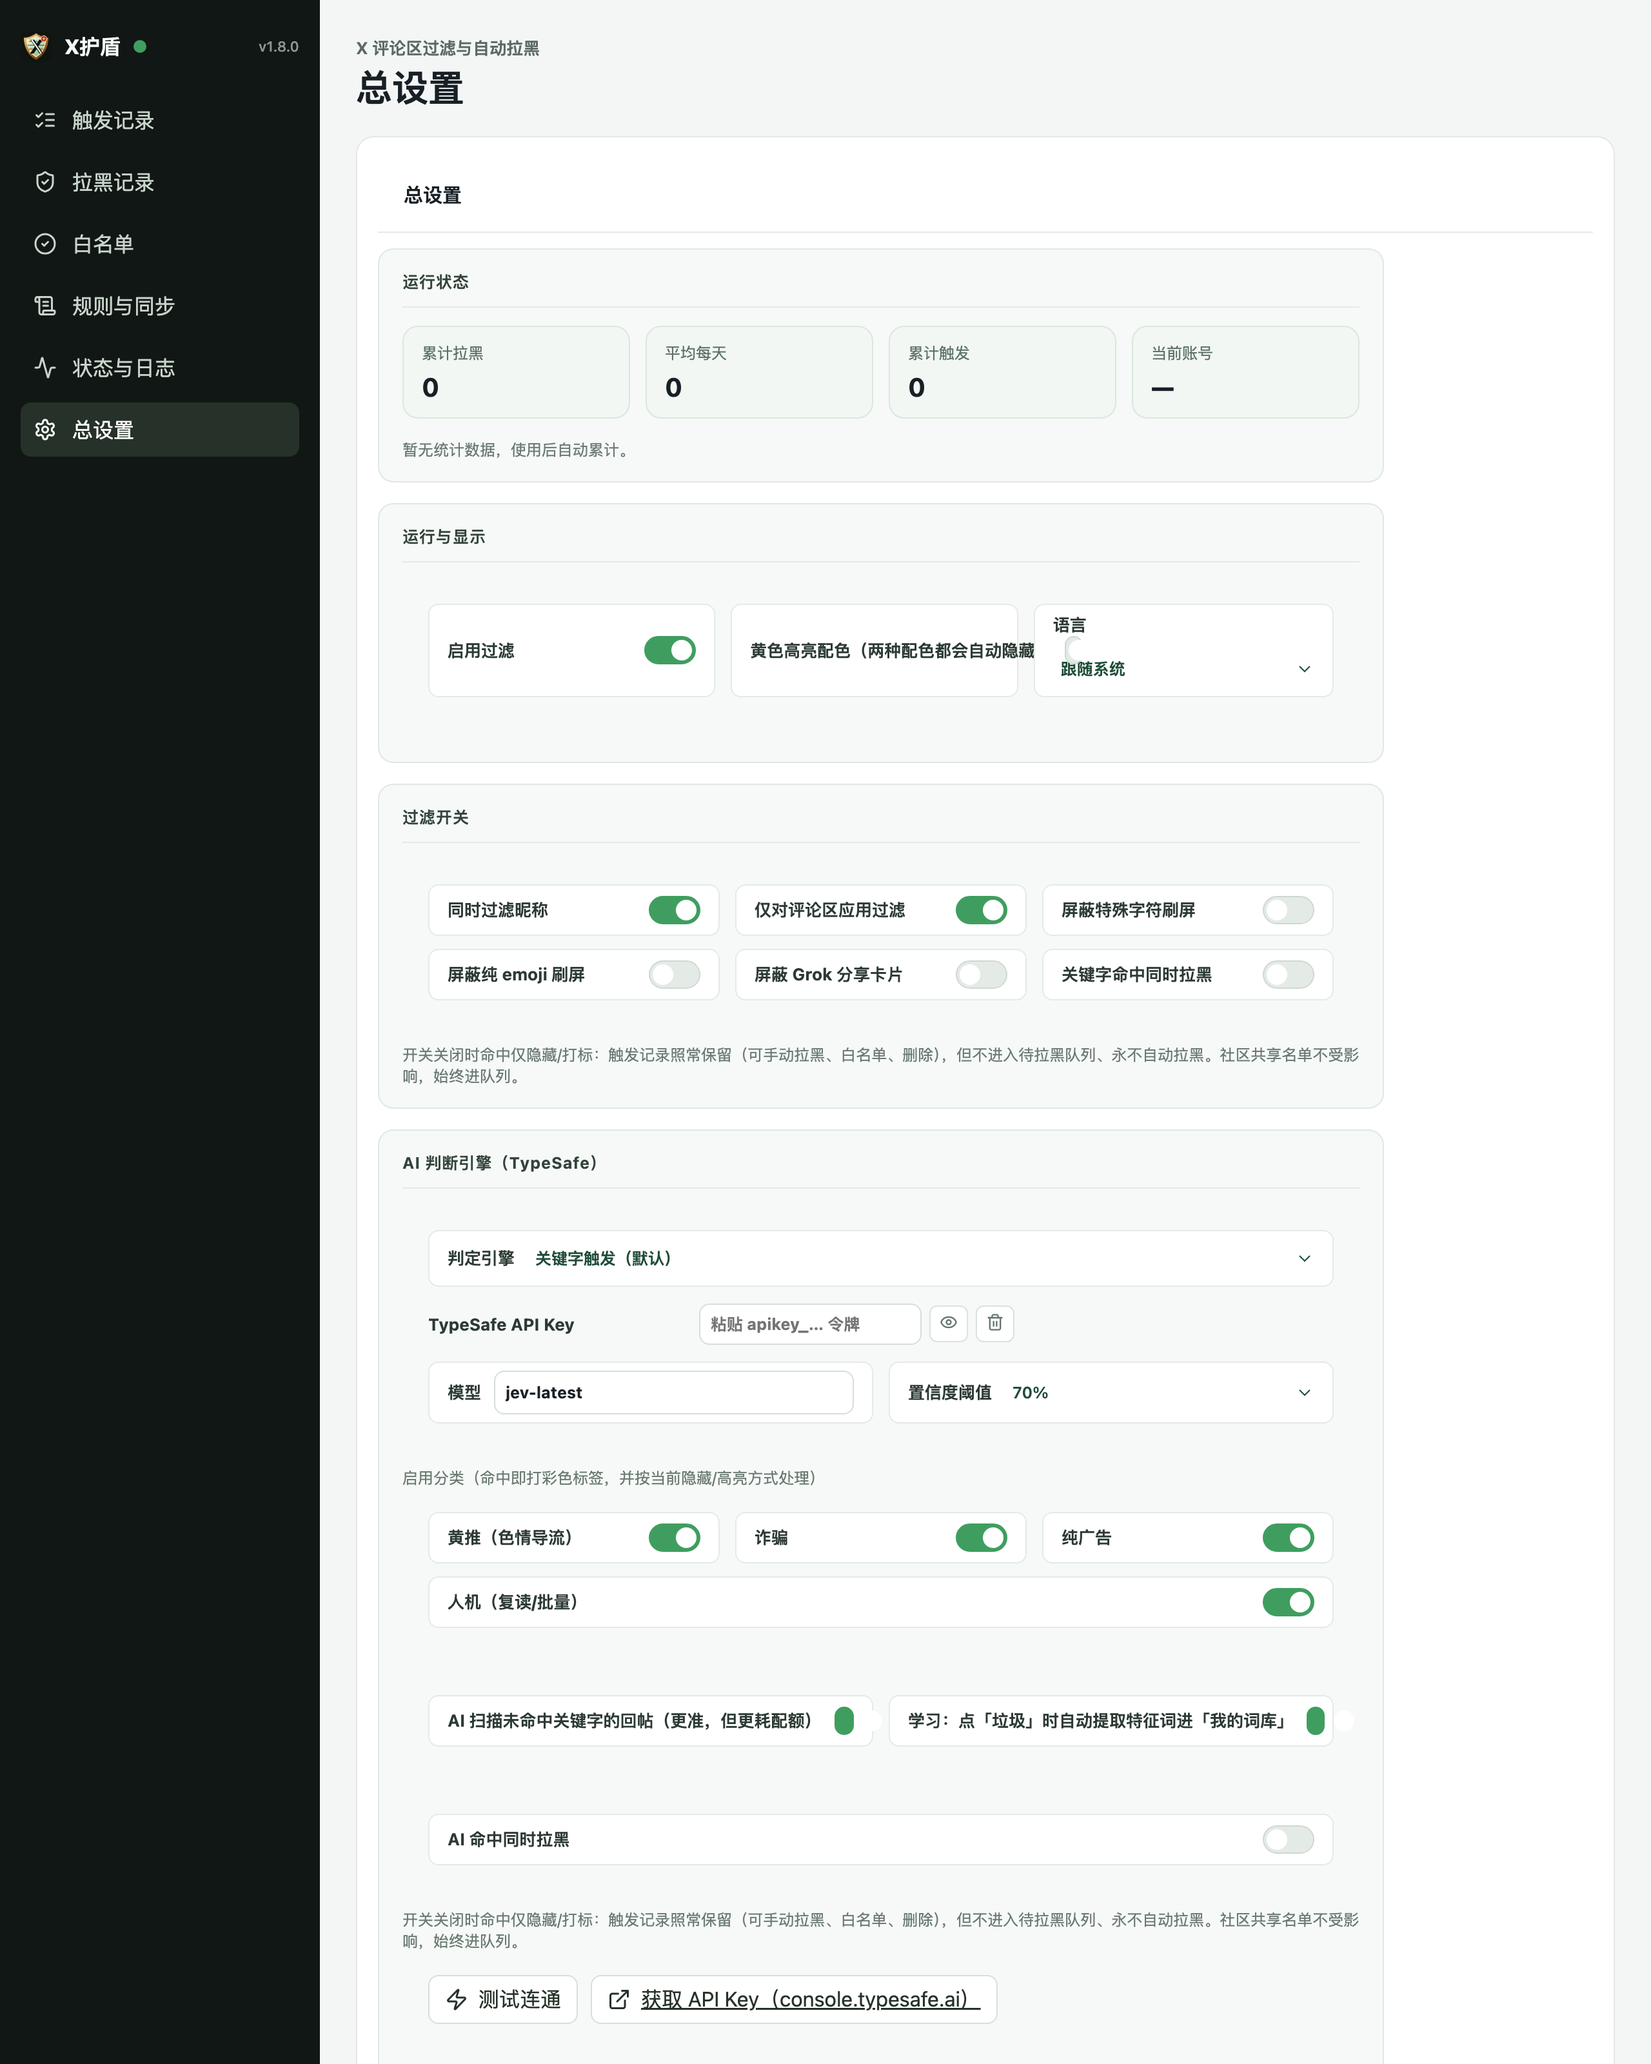
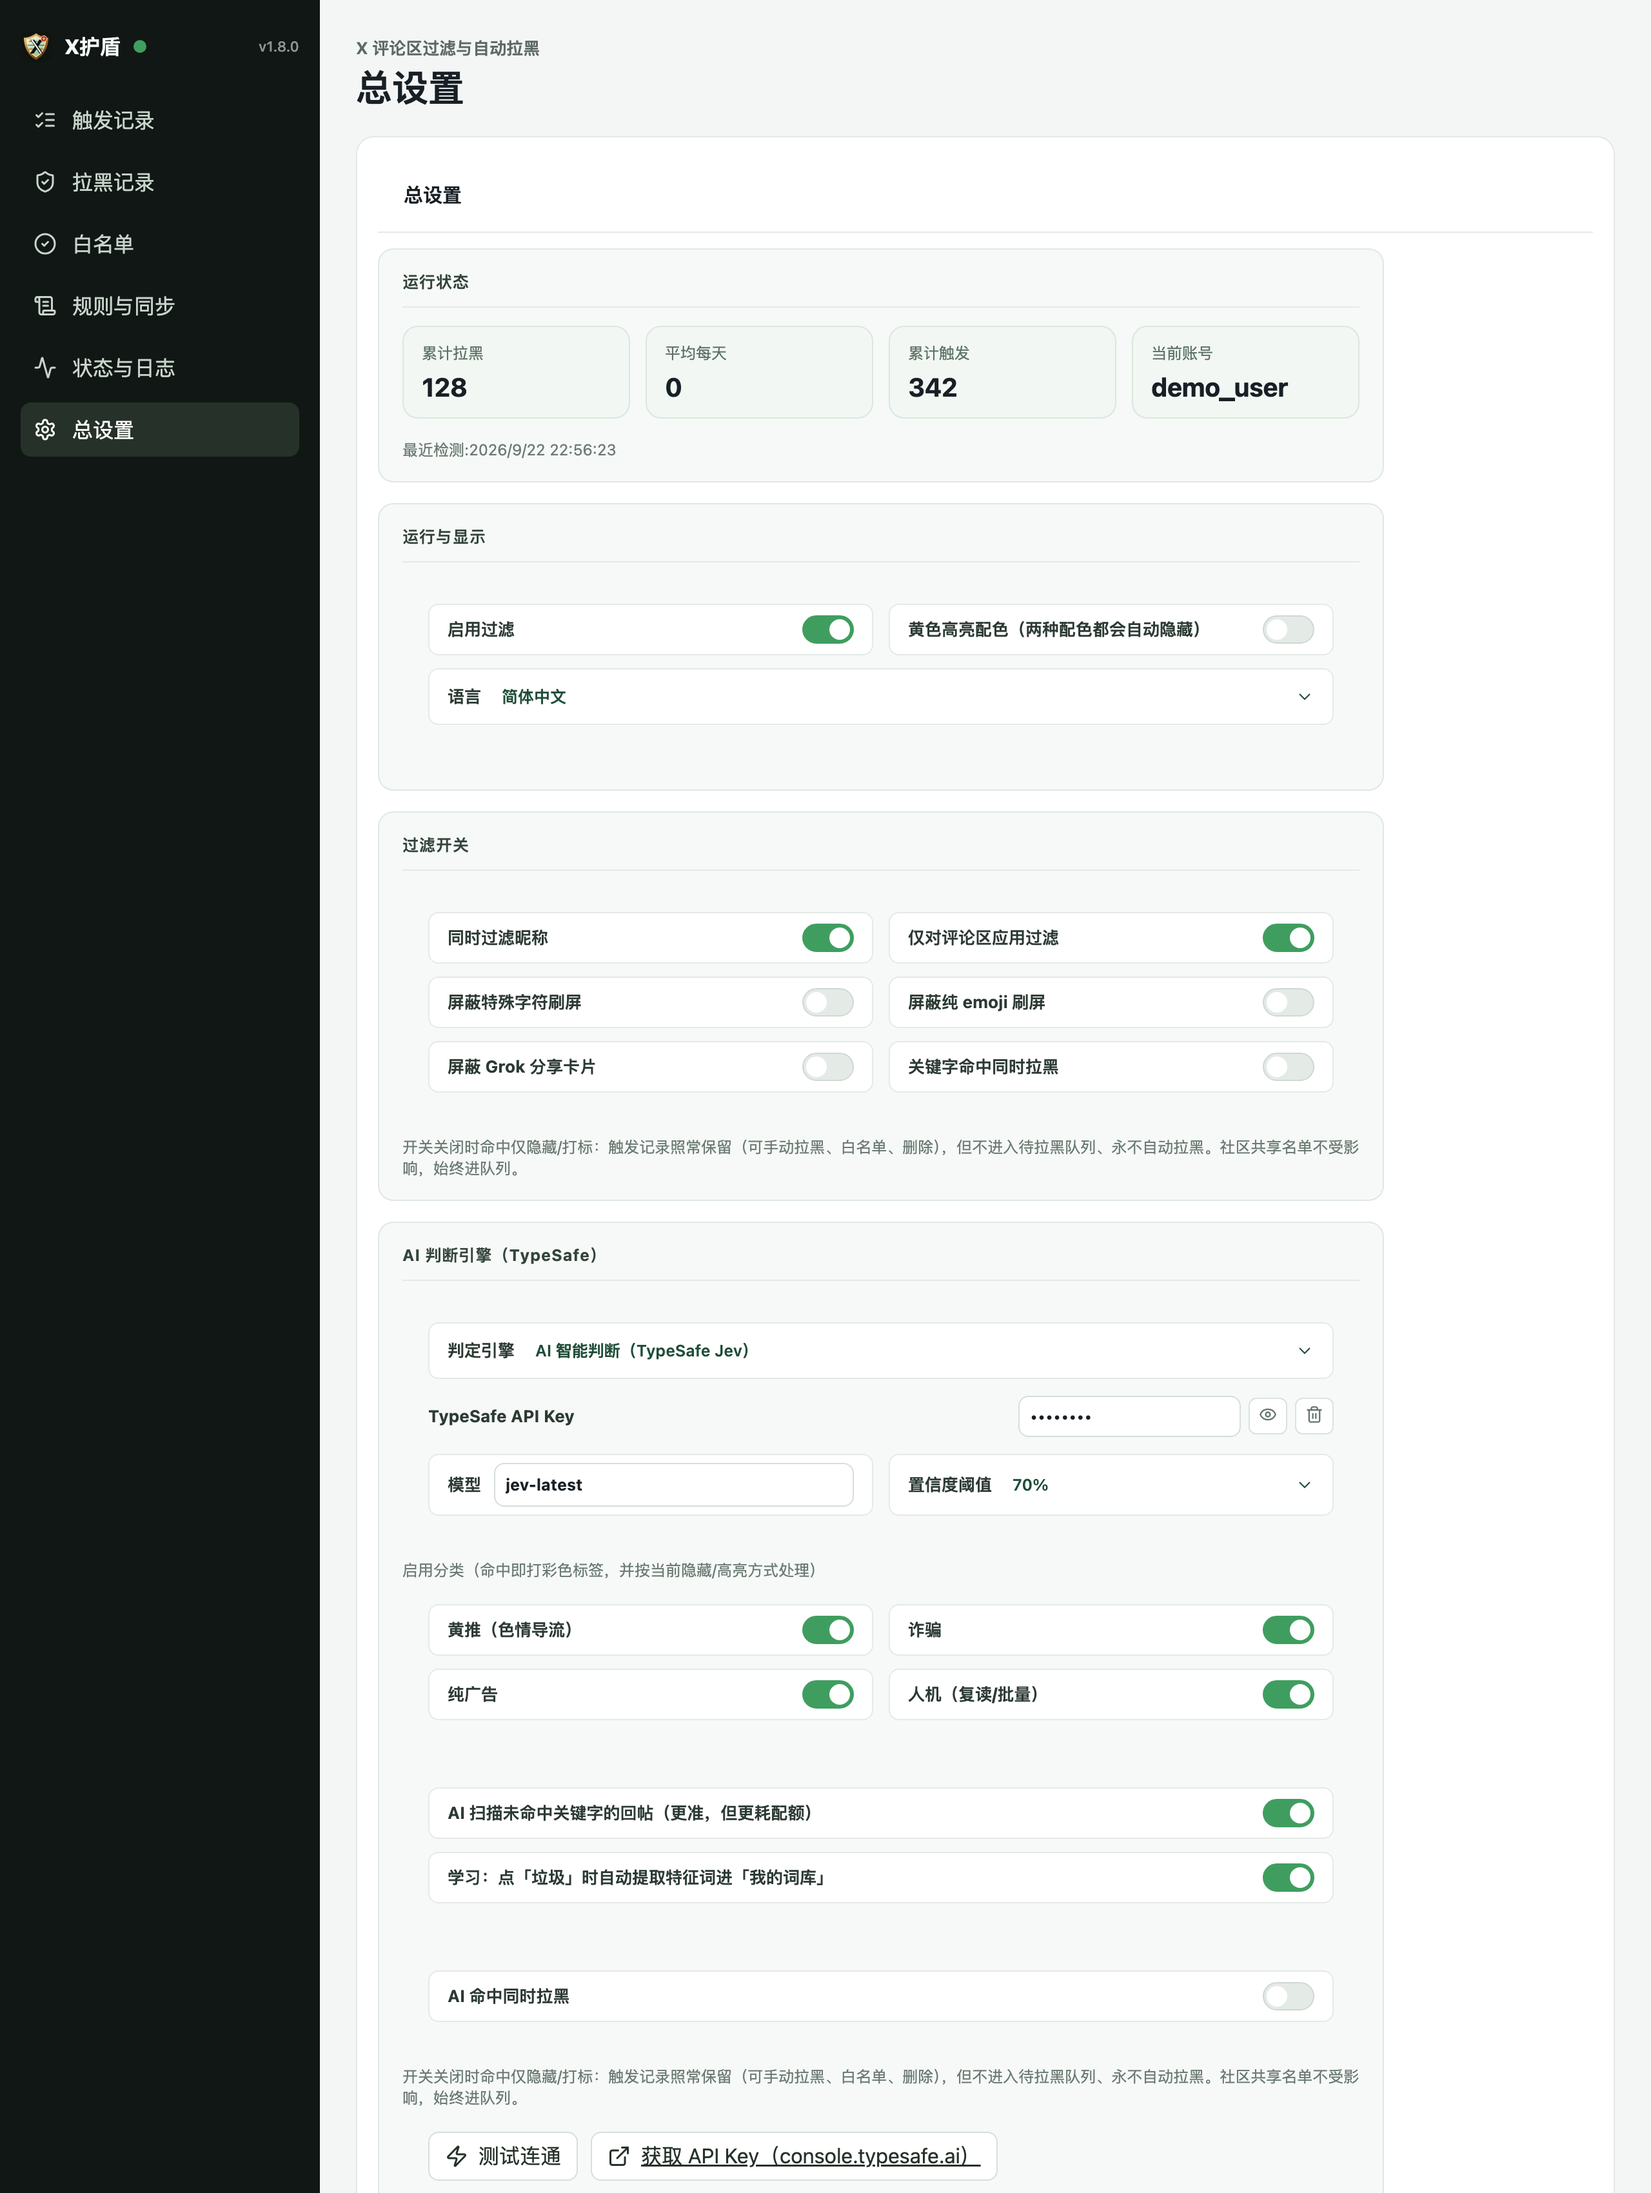
style: 设置界面 EN 溢出修复 + 长标签整行卡片 + 截图脚本双语导航 + X 推广长文 (1.8.0)

diff --git a/apps/extension/src/styles.css b/apps/extension/src/styles.css
@@ -994,6 +994,7 @@ input[type='checkbox'] {
 .toggle-switch {
   width: 40px;
   height: 22px;
+  flex-shrink: 0;
   border-radius: 999px;
   border: 1px solid #cfd8d2;
   background: #e4ebe6;
@@ -1477,6 +1478,15 @@ input[type='checkbox'] {
   flex: 0 0 200px;
 }
 
+.field-row {
+  min-width: 0;
+}
+
+.field-row > * {
+  min-width: 0;
+  max-width: 100%;
+}
+
 .field-row input,
 .field-row select {
   flex: 1 1 240px;
@@ -1521,7 +1531,8 @@ input[type='checkbox'] {
   border-radius: 8px;
   padding: 6px 14px;
   min-height: 38px;
-  flex: 1 1 230px;
+  flex: 1 1 320px;
+  min-width: 0;
 }
 
 .settings-grid > label.field-row.compact > span:first-child {
@@ -1545,6 +1556,10 @@ input[type='checkbox'] {
   gap: 10px 12px;
 }
 
+.settings-grid.stack > label {
+  flex: 1 1 100%;
+}
+
 .settings-grid > label {
   display: inline-flex;
   flex-direction: row;
@@ -1559,13 +1574,23 @@ input[type='checkbox'] {
   color: #2c3a33;
   margin: 0;
   box-sizing: border-box;
-  flex: 1 1 220px;
+  flex: 1 1 300px;
   min-width: 0;
+}
+
+/* 长标签（英文）可换行，不再把开关顶出卡片 */
+.settings-grid label > span:first-child {
+  min-width: 0;
+  flex: 1 1 auto;
+  overflow-wrap: anywhere;
+  white-space: normal;
+  line-height: 1.35;
 }
 
 /* 开关类卡片：文案居左、开关贴右 */
 .settings-grid > label.check-label {
   justify-content: space-between;
+  gap: 12px;
 }
 
 .settings-grid > label > span:first-child {

diff --git a/apps/extension/src/dashboard/Dashboard.tsx b/apps/extension/src/dashboard/Dashboard.tsx
@@ -1768,7 +1768,7 @@ export default function Dashboard() {
                   </label>
                 ))}
               </div>
-              <div className="settings-grid compact">
+              <div className="settings-grid stack">
                 <label className="check-label">
                   <span>{t.aiScanAllLabel}</span>
                   <Toggle
@@ -1784,7 +1784,7 @@ export default function Dashboard() {
                   />
                 </label>
               </div>
-              <div className="settings-grid compact">
+              <div className="settings-grid stack">
                 <label className="check-label">
                   <span>{t.aiAutoBlockLabel}</span>
                   <Toggle

diff --git a/docs/PROMO_X_POST.md b/docs/PROMO_X_POST.md
@@ -1,0 +1,121 @@
+# X 推广长文（发布用）
+
+> 使用说明：直接复制下方中文版（或英文版）发长推（X Premium 支持长文）。
+> 【图1】~【图4】为配图位置标记，建议配图：
+> 图1 = 评论区判定状态条全景（正常绿 + AI·黄推粉 + 可疑琥珀）
+> 图2 = 垃圾回复被收起后的状态条特写（AI·黄推 · 99%，显示/正常/垃圾按钮）
+> 图3 = 右上角 live 状态框（扫描数 / 拦截数 / 延迟 / AI 费用）
+> 图4 = 总设置页 AI 判断引擎区（英文界面）
+> 也可使用 docs/images/ 下的界面截图。
+
+---
+
+## 中文版
+
+我的 X 评论区终于干净了 —— 我给 X 做了一个开源的 AI 反垃圾浏览器扩展：X护盾 🛡
+
+先说效果（见图1）：
+每条回复头顶都有一条实时状态条 ——
+🟢 正常 · 96%（放行）
+🔴 AI·黄推 · 99%（自动隐藏）
+🟡 可疑 · 39%（等你裁决）
+
+它不是关键词屏蔽器。它接入了 TypeSafe 的 System One 判定模型（Jev）：
+每次扫到新回复，一次 API 调用并行回答三个问题——
+① 这条属于哪类：黄推 / 诈骗 / 纯广告 / 人机 / 正常
+② 垃圾程度打分（0–3）
+③ 是不是垃圾（概率）
+
+三个信号 + 你自己的词库命中情况，综合成三档结果。
+词库命中是人工维护的真值 —— 模型犹豫时，听词库的。
+
+【图1：评论区状态条全景】
+
+最关键的设计：**判定过程全程可见，隐藏延迟到你看过**。
+
+- 命中后先淡粉标记，保持可见约 1.5 秒
+- 你的视线扫过去之后，它自动收起为一行状态条
+- 收起的不是黑箱：状态条上写着「AI·黄推 · 99% 已隐藏 @某某：原文摘要」
+
+（见图2：收起后的样子）
+
+【图2：收起状态条特写】
+
+误判了？状态条上直接点：
+
+- 「正常」= 撤回隐藏 + 退出待拉黑 + 本会话不再判定该作者
+- 「垃圾」= 确认进拉黑队列
+  更重要的是——你的每次人工确认都会被系统**学习**：
+  自动提取这条内容的特征词进词库，下次同类话术**秒触发**，连 AI 都不用等。
+
+右上角有一块 live 状态框（见图3）：
+已扫描回复数、拦截数（含占比）、最近判定延迟、AI 费用（$ 实时累计）、
+tokens 总数、每 1,000 条成本、平均每万字耗时 —— 全透明。
+
+【图3：live 状态框】
+
+费用透明到分：官方定价 $42/Btok（仅输入计费，输出免费）。
+实测每 1,000 条回帖 ≈ $0.05，缓存命中不计费，关键字层触发零成本。
+
+隐私是底线：
+
+- API Key 只存本地，判定请求由扩展后台直发 TypeSafe
+- 词库、记录、拉黑列表全部本地
+- 无遥测、无账号体系、开源可审计
+
+英文用户也照顾到了：内置 100+ 条英文垃圾模式
+（OnlyFans 导流、crypto giveaway、seed phrase 钓鱼、f4f、cash flip、
+betting tips、free robux、join my telegram……），中英文同样即时触发。
+
+【图4：英文界面设置页】
+
+默认设置就是最保守的「仅隐藏」：只隐藏+记录，绝不自动拉黑。
+想要自动拉黑，打开对应开关，队列按类人节奏执行（每日上限+随机间隔）。
+
+开源 + 免费：https://github.com/smthdagg/XShield
+安装包在 Release 页，解压即用。
+
+$XShield #AI #OpenSource #Chrome扩展 #Twitter
+
+---
+
+## English version
+
+My X replies are finally clean — I built an open-source AI anti-spam extension for X: XShield 🛡
+
+Every reply gets a live status bar (see 图1):
+🟢 Normal · 96% → pass
+🔴 AI·Porn-bait · 99% → auto-hidden
+🟡 Suspicious · 39% → waits for your call
+
+It's not a keyword blocker. It calls TypeSafe's System One model (Jev):
+one API call answers three questions in parallel —
+① category: porn-bait / scam / pure ads / bot / normal
+② severity score (0–3)
+③ is-spam probability
+
+Combined with your own curated blocklist (keyword hits override model hesitation).
+
+The key design: **the whole process is visible, hiding waits until you've seen it.**
+Hits stay marked for ~1.5 s, then collapse into one status bar —
+"AI·Porn-bait · 99% hidden @user: text…" with Show / Normal / Spam buttons (图2).
+
+Misclick? One tap:
+
+- Normal → unhide + leave the block queue + stop judging that author this session
+- Spam → confirm + queue for blocking
+  And the system **learns**: every confirmation extracts keyword features into your blocklist —
+  next time the same script triggers instantly, no AI call needed.
+
+A live HUD (图3) shows scans, caught (with %), latency, and running AI cost —
+official pricing $42/Btok (input only, output free) ≈ $0.05 per 1,000 replies.
+
+English users are covered: 100+ English spam patterns ship out of the box
+(OnlyFans bait, crypto giveaways, seed-phrase phishing, f4f, cash flips, betting tips…).
+
+Defaults are the most conservative: hide-only, never auto-block —
+flip the switches if you want the auto-block queue (human-paced).
+
+Open source + free: https://github.com/smthdagg/XShield
+
+#AIAgents #OpenSource #Chrome #SpamFilter
